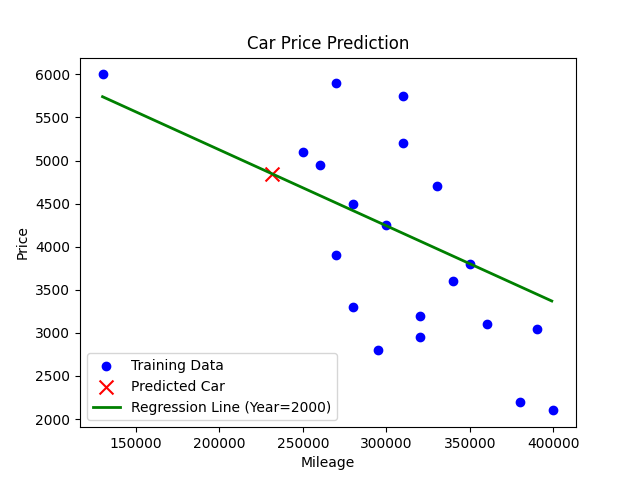
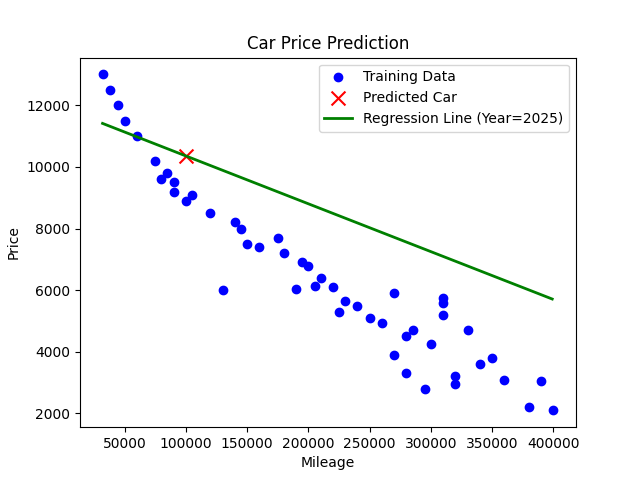
Add more functions to the admin panel

diff --git a/Mech/main/templates/user_list.html b/Mech/main/templates/user_list.html
@@ -1,17 +1,27 @@
 <!DOCTYPE html>
-<html lang="en">
+<html lang="en" class="dark">
 <head>
     <meta charset="UTF-8">
     <title>User Management</title>
     <script src="https://cdn.tailwindcss.com"></script>
+    <script>
+        tailwind.config = {
+            darkMode: 'class'
+        }
+    </script>
 </head>
-<body class="bg-gray-100 font-sans">
+<body class="bg-gray-100 dark:bg-gray-900 dark:text-white font-sans">
     <nav class="bg-gray-800 p-4 shadow-lg mb-4">
         <div class="container mx-auto flex justify-between items-center">
             <span class="text-white text-2xl font-bold">Admin - User Management</span>
-            <a href="{{ url_for('main.admin_main') }}" class="bg-blue-600 text-white px-4 py-2 rounded hover:bg-blue-700">
-                Back to Admin Panel
-            </a>
+            <div class="flex gap-2">
+                <button id="toggleDarkMode" class="bg-yellow-500 hover:bg-yellow-600 text-white px-4 py-2 rounded">
+                    Toggle Dark Mode
+                </button>
+                <a href="{{ url_for('main.admin_main') }}" class="bg-blue-600 text-white px-4 py-2 rounded hover:bg-blue-700">
+                    Back to Admin Panel
+                </a>
+            </div>
         </div>
     </nav>
 
@@ -19,7 +29,7 @@
         {% with messages = get_flashed_messages(with_categories=true) %}
             {% if messages %}
                 {% for category, message in messages %}
-                    <div class="mb-4 p-4 bg-green-100 border border-green-300 rounded text-green-800">
+                    <div class="mb-4 p-4 bg-green-100 dark:bg-green-900 border border-green-300 dark:border-green-700 rounded text-green-800 dark:text-green-200">
                         {{ message }}
                     </div>
                 {% endfor %}
@@ -28,23 +38,27 @@
 
         <h2 class="text-2xl font-semibold mb-4">Registered Users</h2>
 
-        <table class="min-w-full bg-white shadow-md rounded">
+        <table class="min-w-full bg-white dark:bg-gray-800 shadow-md rounded">
             <thead>
-                <tr class="bg-gray-200 text-gray-600 uppercase text-sm leading-normal">
+                <tr class="bg-gray-200 dark:bg-gray-700 text-gray-600 dark:text-gray-200 uppercase text-sm leading-normal">
                     <th class="py-3 px-6 text-left">ID</th>
                     <th class="py-3 px-6 text-left">Username</th>
                     <th class="py-3 px-6 text-left">Role</th>
                     <th class="py-3 px-6 text-center">Actions</th>
                 </tr>
             </thead>
-            <tbody class="text-gray-700 text-sm font-light">
+            <tbody class="text-gray-700 dark:text-gray-300 text-sm font-light">
                 {% for user in users %}
-                <tr class="border-b border-gray-200 hover:bg-gray-100">
+                <tr class="border-b border-gray-200 dark:border-gray-700 hover:bg-gray-100 dark:hover:bg-gray-700">
                     <td class="py-3 px-6 text-left">{{ user.id }}</td>
                     <td class="py-3 px-6 text-left">{{ user.username }}</td>
                     <td class="py-3 px-6 text-left">{{ user.role }}</td>
-                    <td class="py-3 px-6 text-center">
+                    <td class="py-3 px-6 text-center flex justify-center gap-2">
                         {% if user.role != 'admin' %}
+                        <a href="{{ url_for('main.progress', user_id=user.id) }}"
+                           class="bg-green-500 hover:bg-green-700 text-white font-bold py-2 px-4 rounded">
+                            View Progress
+                        </a>
                         <form method="POST" action="{{ url_for('main.delete_user', user_id=user.id) }}"
                               onsubmit="return confirm('Are you sure you want to delete this user?');">
                             <button type="submit" class="bg-red-500 hover:bg-red-700 text-white font-bold py-2 px-4 rounded">
@@ -60,5 +74,12 @@
             </tbody>
         </table>
     </div>
+
+    <script>
+        const toggleBtn = document.getElementById('toggleDarkMode');
+        toggleBtn.addEventListener('click', () => {
+            document.documentElement.classList.toggle('dark');
+        });
+    </script>
 </body>
 </html>

diff --git a/Mech/main/templates/admin.html b/Mech/main/templates/admin.html
@@ -1,5 +1,5 @@
 <!DOCTYPE html>
-<html lang="en" class="transition-colors duration-300">
+<html lang="en" class="dark transition-colors duration-300">
 <head>
     <meta charset="UTF-8" />
     <meta name="viewport" content="width=device-width, initial-scale=1" />
@@ -15,7 +15,7 @@
 
     <nav class="bg-gray-800 dark:bg-gray-900 p-4 shadow-lg">
         <div class="container mx-auto flex justify-between items-center">
-            <a href="#" class="text-white text-xl md:text-2xl font-bold rounded-md px-3 py-2 hover:bg-gray-700 transition duration-300">
+            <a class="text-white text-xl md:text-2xl font-bold rounded-md px-3 py-2 hover:bg-gray-700 transition duration-300">
                 Welcome to the admin panel
             </a>
 

diff --git a/Mech/main/routes.py b/Mech/main/routes.py
@@ -49,7 +49,37 @@ def market():
         (250000, 2007, 5100),
         (320000, 2002, 2950),
         (310000, 2006, 5750),
-        (380000, 1990, 2200)
+        (380000, 1995, 2200),
+        (240000, 2008, 5500),
+        (180000, 2010, 7200),
+        (150000, 2012, 7500),
+        (200000, 2011, 6800),
+        (220000, 2009, 6100),
+        (140000, 2014, 8200),
+        (100000, 2015, 8900),
+        (175000, 2013, 7700),
+        (90000, 2016, 9200),
+        (80000, 2017, 9600),
+        (195000, 2011, 6900),
+        (160000, 2012, 7400),
+        (230000, 2008, 5650),
+        (145000, 2013, 8000),
+        (120000, 2014, 8500),
+        (105000, 2016, 9100),
+        (85000, 2018, 9800),
+        (75000, 2019, 10200),
+        (60000, 2020, 11000),
+        (50000, 2021, 11500),
+        (45000, 2022, 12000),
+        (38000, 2023, 12500),
+        (32000, 2024, 13000),
+        (90000, 2017, 9500),
+        (190000, 2009, 6050),
+        (210000, 2010, 6400),
+        (205000, 2009, 6150),
+        (225000, 2007, 5300),
+        (285000, 2005, 4700),
+        (310000, 2006, 5600)
     ]
 
     # Train model
@@ -158,7 +188,37 @@ def model_pred():
         (250000, 2007, 5100),
         (320000, 2002, 2950),
         (310000, 2006, 5750),
-        (380000, 1990, 2200)
+        (380000, 1995, 2200),
+        (240000, 2008, 5500),
+        (180000, 2010, 7200),
+        (150000, 2012, 7500),
+        (200000, 2011, 6800),
+        (220000, 2009, 6100),
+        (140000, 2014, 8200),
+        (100000, 2015, 8900),
+        (175000, 2013, 7700),
+        (90000, 2016, 9200),
+        (80000, 2017, 9600),
+        (195000, 2011, 6900),
+        (160000, 2012, 7400),
+        (230000, 2008, 5650),
+        (145000, 2013, 8000),
+        (120000, 2014, 8500),
+        (105000, 2016, 9100),
+        (85000, 2018, 9800),
+        (75000, 2019, 10200),
+        (60000, 2020, 11000),
+        (50000, 2021, 11500),
+        (45000, 2022, 12000),
+        (38000, 2023, 12500),
+        (32000, 2024, 13000),
+        (90000, 2017, 9500),
+        (190000, 2009, 6050),
+        (210000, 2010, 6400),
+        (205000, 2009, 6150),
+        (225000, 2007, 5300),
+        (285000, 2005, 4700),
+        (310000, 2006, 5600)
     ]
 
     X = [[mileage, year] for mileage, year, _ in data]
@@ -219,39 +279,6 @@ def model_pred():
         plot_url=image_base64
     )
 
-@main.route('/send_email', methods=['POST'])
-@login_required
-def send_email():
-    sender_email = "LPApostolov21@codingburgas.bg"
-    app_password = "my_secret_key"
-    receiver_email = "ktotev@codingburgas.bg"
-    subject = "🚗 Car Price Prediction Chart"
-    body = "Attached is the chart from the latest car price prediction."
-
-    chart_path = os.path.join('static', 'prediction_chart.png')
-
-    msg = MIMEMultipart()
-    msg['From'] = sender_email
-    msg['To'] = receiver_email
-    msg['Subject'] = subject
-
-    try:
-        with open(chart_path, 'rb') as f:
-            part = MIMEBase('application', 'octet-stream')
-            part.set_payload(f.read())
-            encoders.encode_base64(part)
-            part.add_header('Content-Disposition', 'attachment', filename='prediction_chart.png')
-            msg.attach(part)
-
-        with smtplib.SMTP_SSL('smtp.gmail.com', 465) as server:
-            server.login(sender_email, app_password)
-            server.sendmail(sender_email, receiver_email, msg.as_string())
-
-        flash("✅ Email sent successfully to ktotev@codingburgas.bg", "success")
-    except Exception as e:
-        flash(f"❌ Failed to send email: {str(e)}", "danger")
-
-    return redirect(url_for('main.model_pred'))
 
 @main.route('/admin/users')
 @login_required
@@ -267,3 +294,9 @@ def delete_user(user_id):
     db.session.commit()
     flash(f'User {user.username} has been deleted.', 'success')
     return redirect(url_for('main.view_users'))
+
+
+@main.route('/progress')
+@login_required
+def progress():
+    return('Hellow World')

diff --git a/forms.py b/forms.py
@@ -22,5 +22,5 @@ class LoginForm(FlaskForm):
 class LinearForm(FlaskForm):
     car_brand = StringField('Car Brand', validators=[DataRequired(), Length(min=3, max=20)])
     mileage = IntegerField('Mileage (In kilometers)', validators=[DataRequired(), NumberRange(min=100000)])
-    man_year = IntegerField('Year of manufacture(1990 - 2010)', validators=[DataRequired(), NumberRange(min=1990, max=2010)])
+    man_year = IntegerField('Year of manufacture(1990 - 2010)', validators=[DataRequired(), NumberRange(min=1990, max=2025)])
     submit = SubmitField('Predict')
